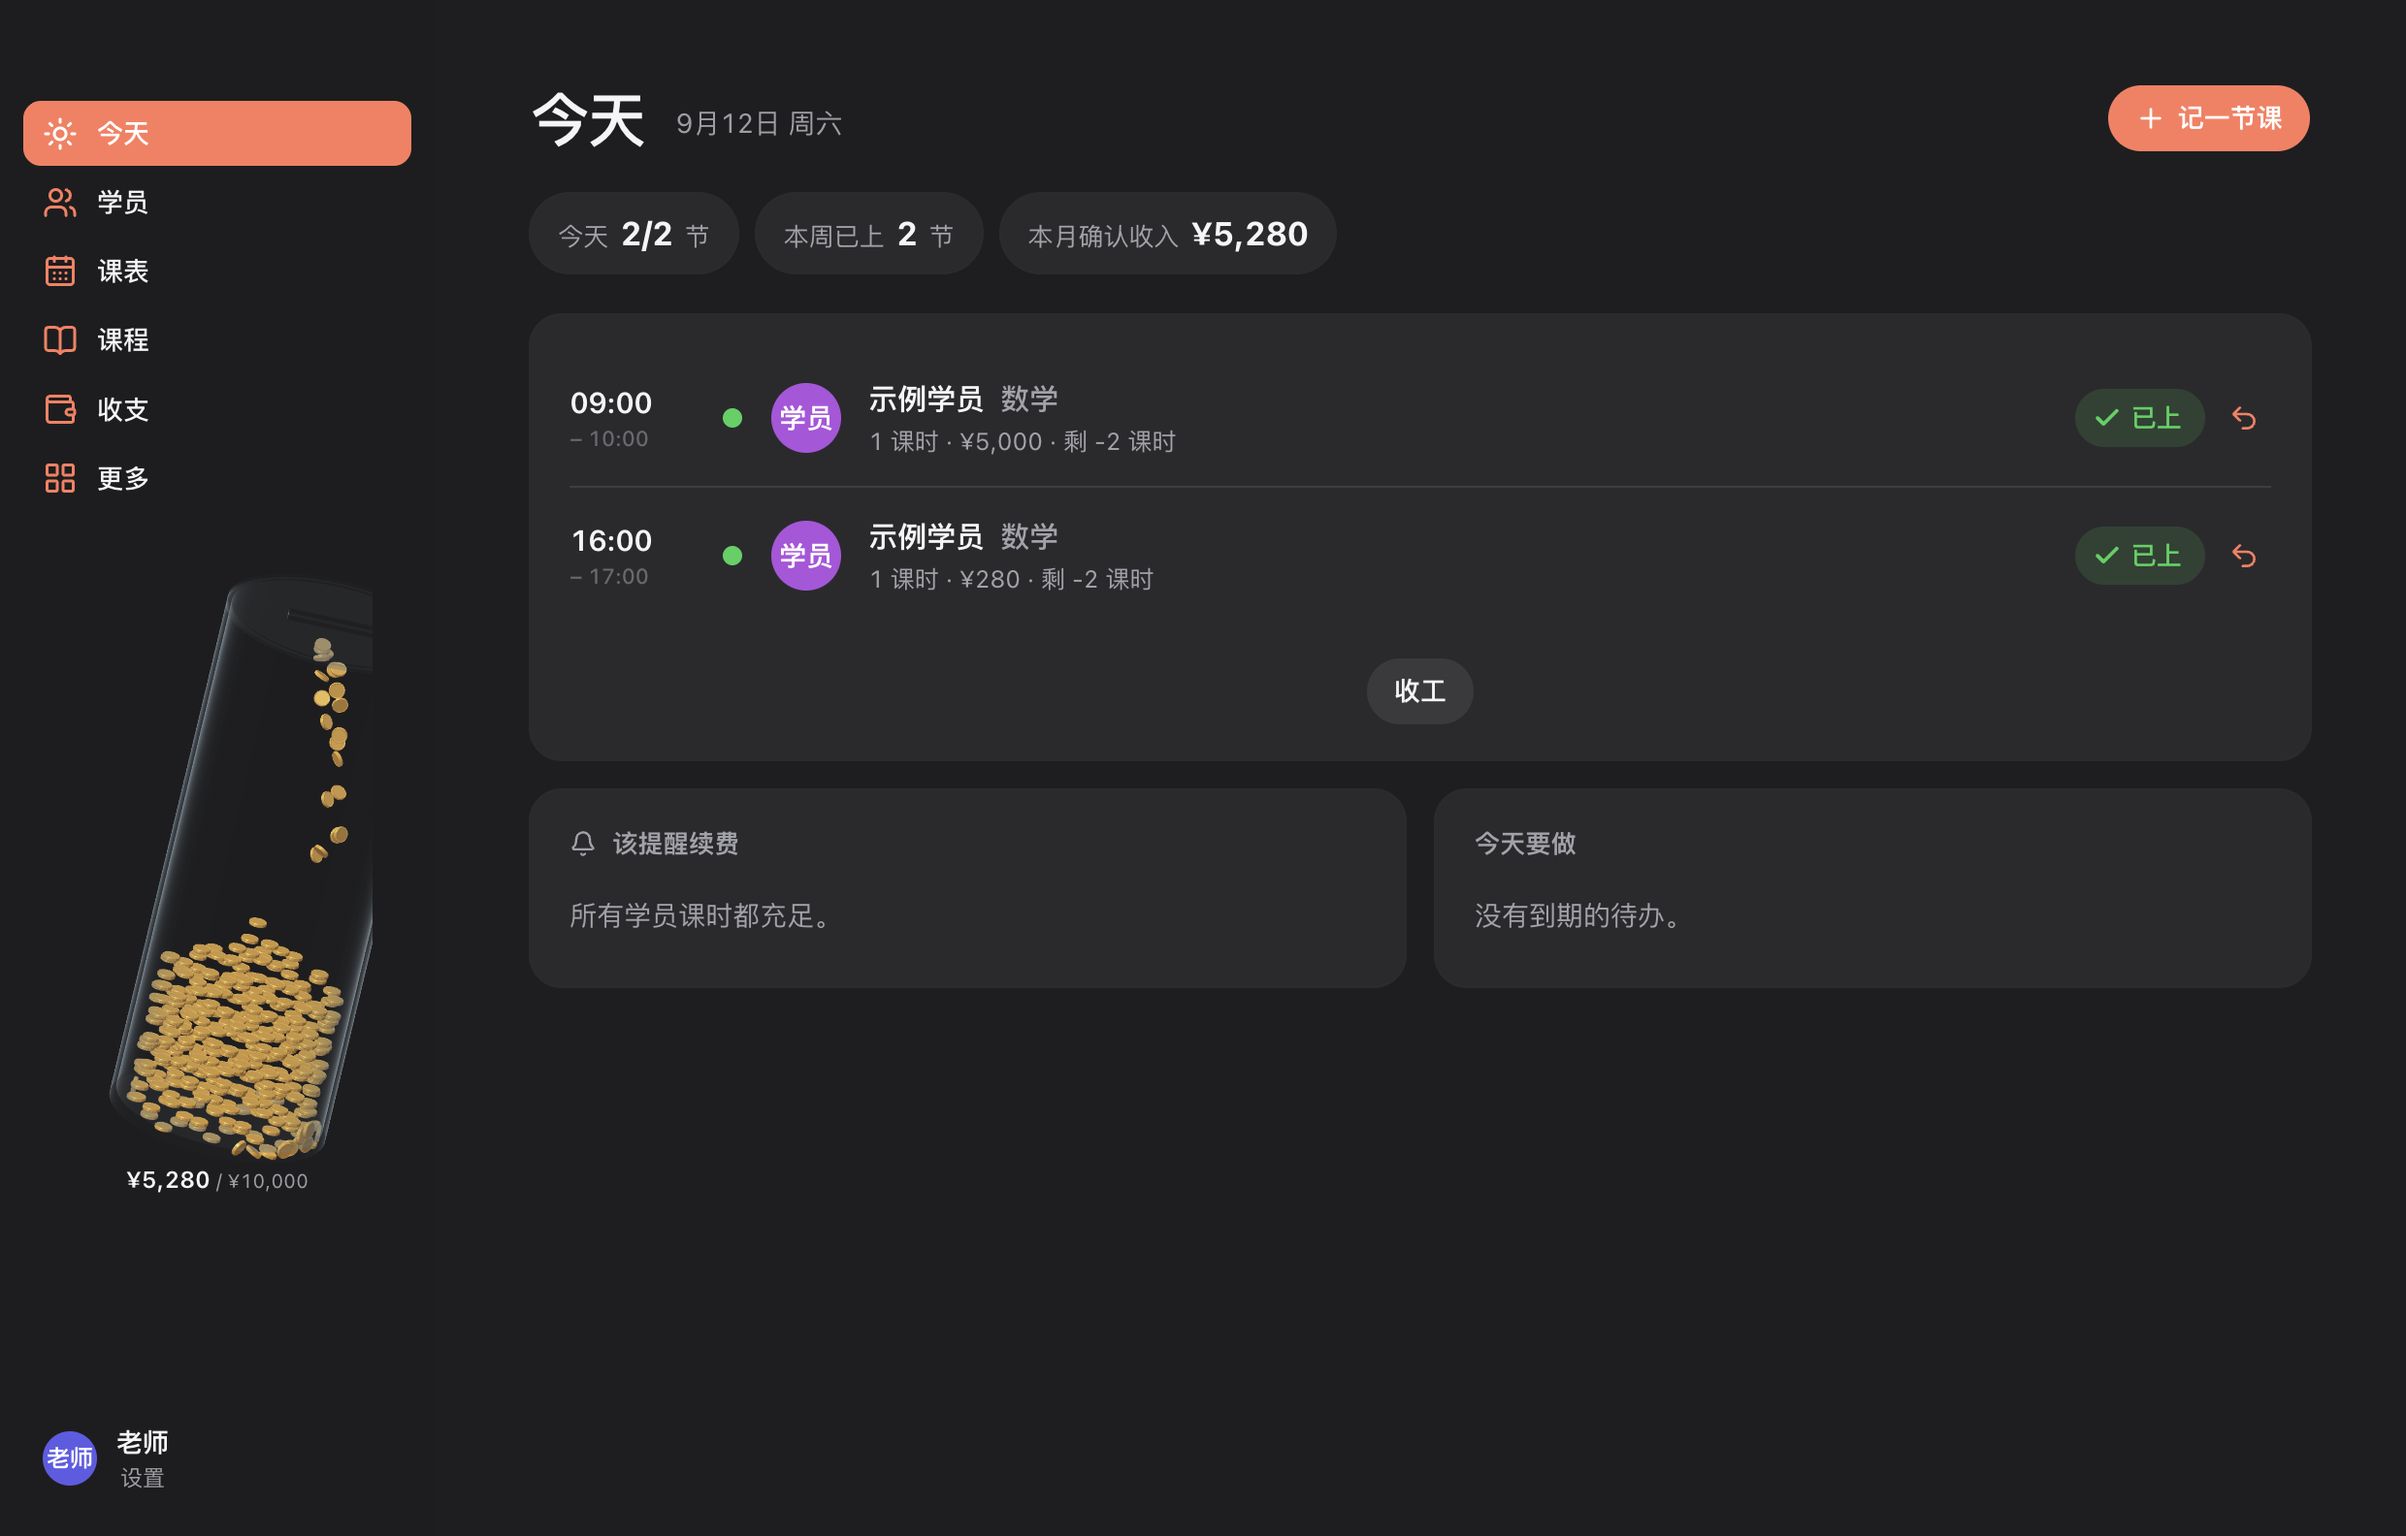
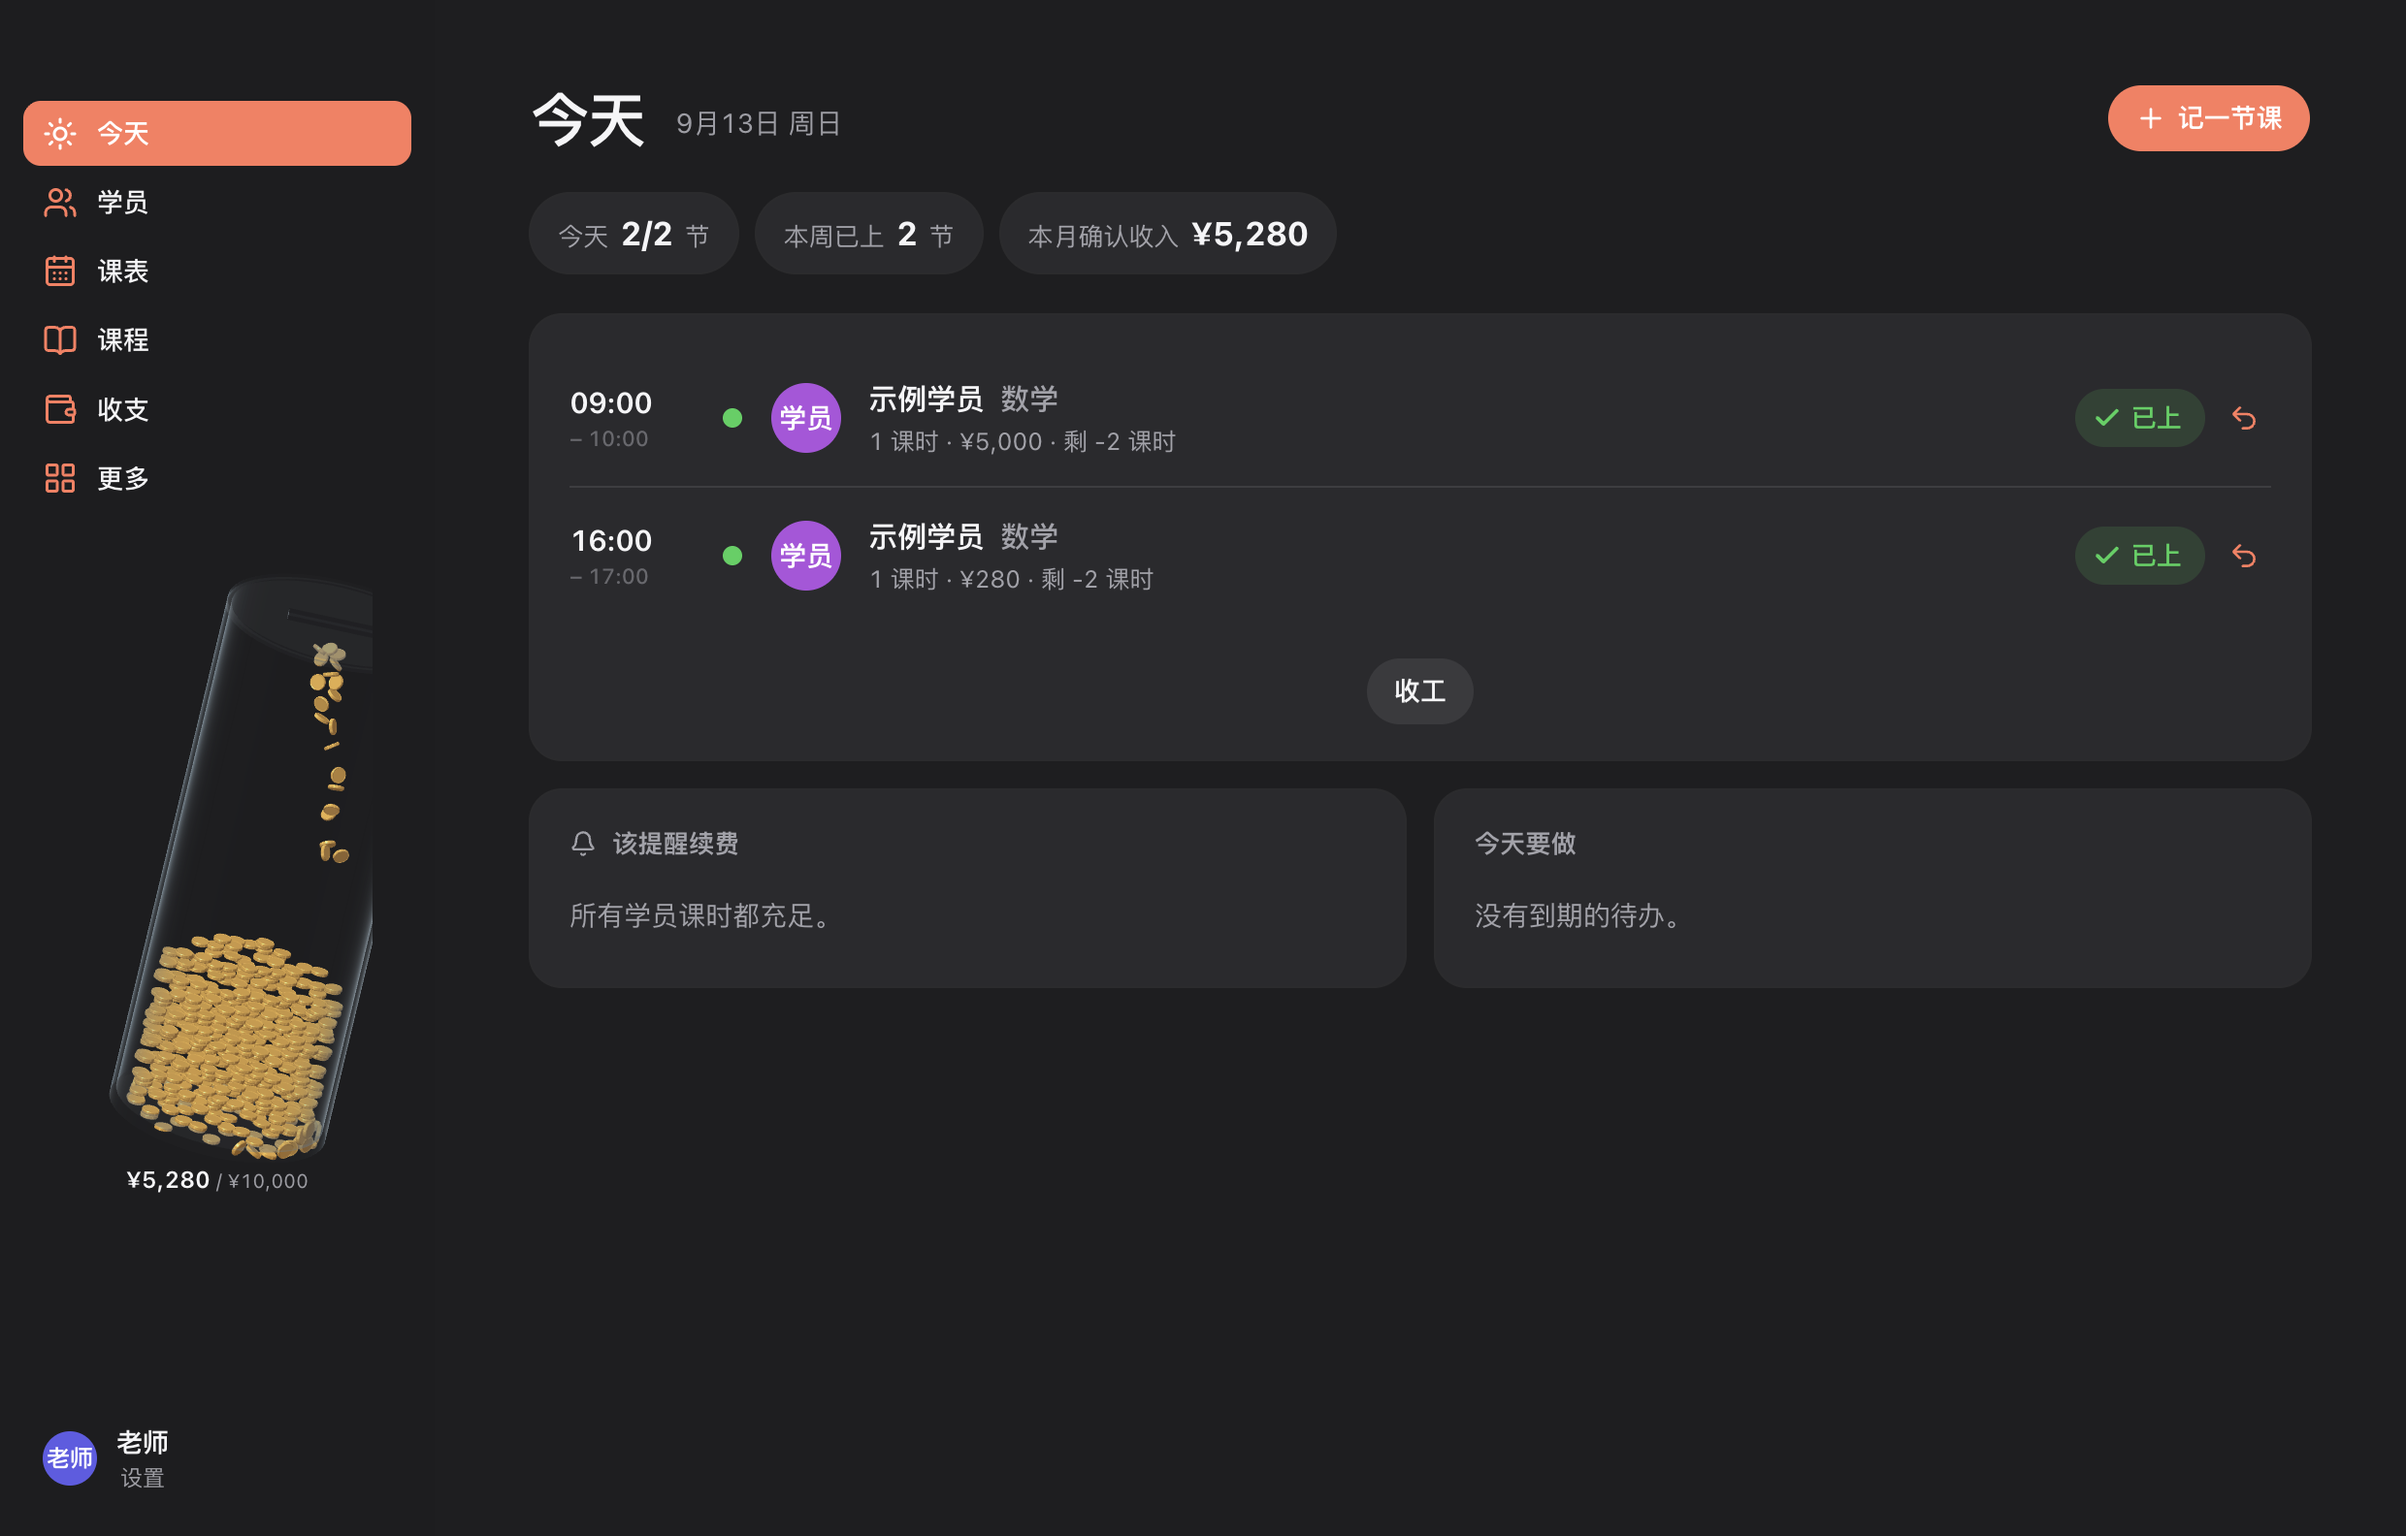
refine: tighten realistic coin pile spacing

Changed region(s): [[0.031, 0.5878, 0.1552, 0.7424], [0.1242, 0.4021, 0.1552, 0.5568]]

diff --git a/src/ui/widgets/SavingsJar.tsx b/src/ui/widgets/SavingsJar.tsx
@@ -4,7 +4,7 @@ import { scheduleCoins, type CoinEmission } from "@/core/coin-queue";
 import { feedbackTiming } from "@/core/lesson-feedback";
 import { jarState } from "@/core/jar";
 import { fmtMoney } from "@/core/finance";
-import { buildJarPile } from "@/core/jar-pile";
+import { buildJarPile, buildJarVisualPile } from "@/core/jar-pile";
 import { createJarPhysics3D, type PhysicsCoinPose } from "@/core/jar-physics-3d";
 import { rotateVectorByQuaternion, type Quaternion } from "@/core/jar-mesh";
 import { useLocalDay } from "./useLocalDay";
@@ -34,30 +34,24 @@ function seededRandom(seed: number) {
 }
 
 function visualPile(fill: number, height: number): PhysicsCoinPose[] {
-  if (fill <= 0) return [];
-  const target = Math.max(0.08, fill * height * 0.82);
-  const poses: PhysicsCoinPose[] = [];
-  const rowStep = COIN_HALF_HEIGHT * 2.8;
-  for (let row = 0; row * rowStep + COIN_HALF_HEIGHT <= target; row++) {
-    const y = COIN_HALF_HEIGHT + row * rowStep;
-    for (let column = 0; column < 12; column++) {
-      const x = -0.76 + column * 0.138 + (row % 2) * 0.025;
-      const availableDepth = Math.sqrt(Math.max(0, 0.82 ** 2 - x ** 2));
-      const z = Math.sin(column * 7.13 + row * 3.71) * availableDepth * 0.88;
-      const radial = Math.hypot(x, z);
-      const localTop = target * (0.7 + 0.3 * Math.max(0, 1 - radial / 0.82) ** 1.7);
-      if (radial > 0.82 || y > localTop) continue;
-      const yaw = ((row * 12 + column) * 0.61803398875 % 1) * Math.PI * 2;
-      poses.push({
-        id: `stable-${row}-${column}`,
-        position: { x, y, z },
-        rotation: { x: 0, y: Math.sin(yaw / 2), z: 0, w: Math.cos(yaw / 2) },
-        radius: COIN_RADIUS,
-        halfHeight: COIN_HALF_HEIGHT,
-      });
-    }
-  }
-  return poses;
+  return buildJarVisualPile(fill, height, COIN_RADIUS, COIN_HALF_HEIGHT).map((coin, index) => {
+    const hx = coin.tiltX / 2;
+    const hz = coin.tiltZ / 2;
+    const tilt = {
+      x: Math.cos(hz) * Math.sin(hx),
+      y: Math.sin(hz) * Math.sin(hx),
+      z: Math.sin(hz) * Math.cos(hx),
+      w: Math.cos(hz) * Math.cos(hx),
+    };
+    const yaw = { x: 0, y: Math.sin(coin.yaw / 2), z: 0, w: Math.cos(coin.yaw / 2) };
+    return {
+      id: `stable-${index}`,
+      position: { x: coin.x, y: coin.y, z: coin.z },
+      rotation: multiplyQuaternion(yaw, tilt),
+      radius: COIN_RADIUS,
+      halfHeight: COIN_HALF_HEIGHT,
+    };
+  });
 }
 
 function transformStablePose(pose: PhysicsCoinPose, jarRotation: Quaternion): PhysicsCoinPose {

diff --git a/src/core/jar-pile.ts b/src/core/jar-pile.ts
@@ -5,6 +5,48 @@ export interface PileCoin {
   yaw: number;
 }
 
+export interface VisualPileCoin extends PileCoin {
+  tiltX: number;
+  tiltZ: number;
+}
+
+/** Dense visible shell for historical value; layers nearly touch and avoid a flat grid look. */
+export function buildJarVisualPile(
+  fill: number,
+  height: number,
+  radius: number,
+  halfHeight: number,
+): VisualPileCoin[] {
+  const safeFill = Math.max(0, Math.min(1, fill));
+  if (!safeFill) return [];
+  const target = Math.max(radius, safeFill * height * 0.82);
+  const result: VisualPileCoin[] = [];
+  const layerStep = halfHeight * 2.02;
+  for (let layer = 0; layer * layerStep + halfHeight <= target && result.length < 1200; layer++) {
+    const beforeLayer = result.length;
+    const y = halfHeight + layer * layerStep;
+    for (let column = 0; column < 12 && result.length < 1200; column++) {
+      const x = -0.76 + column * 0.138 + (layer % 2) * 0.025;
+      const availableDepth = Math.sqrt(Math.max(0, 0.82 ** 2 - x ** 2));
+      const z = Math.sin(column * 7.13 + layer * 3.71) * availableDepth * 0.88;
+      const radial = Math.hypot(x, z);
+      const localTop = target * (0.7 + 0.3 * Math.max(0, 1 - radial / 0.82) ** 1.7);
+      if (radial > 0.82 || y > localTop) continue;
+      const index = layer * 12 + column;
+      result.push({
+        x,
+        y,
+        z,
+        yaw: ((index * 0.61803398875) % 1) * Math.PI * 2,
+        tiltX: Math.sin(index * 2.17) * 0.055,
+        tiltZ: Math.cos(index * 1.73) * 0.055,
+      });
+    }
+    if (result.length === beforeLayer) break;
+  }
+  return result;
+}
+
 /** Deterministic bounded coin columns with a higher center and tapered edge. */
 export function buildJarPile(fill: number, count: number, radius: number, halfHeight: number): PileCoin[] {
   const safeFill = Math.max(0, Math.min(1, fill));
@@ -46,4 +88,3 @@ export function buildJarPile(fill: number, count: number, radius: number, halfHe
   }
   return result;
 }
-

diff --git a/tests/jar-pile.test.ts b/tests/jar-pile.test.ts
@@ -1,5 +1,5 @@
 import { describe, expect, it } from "vitest";
-import { buildJarPile } from "../src/core/jar-pile";
+import { buildJarPile, buildJarVisualPile } from "../src/core/jar-pile";
 
 describe("三维金币小山堆", () => {
   it("确定性生成有界的圆形币堆", () => {
@@ -20,5 +20,15 @@ describe("三维金币小山堆", () => {
     expect(center.length).toBeGreaterThan(0);
     expect(edge.length).toBeGreaterThan(0);
     expect(Math.max(...center.map((coin) => coin.y))).toBeGreaterThan(Math.max(...edge.map((coin) => coin.y)));
+  });
+
+  it("历史可见币层接近真实厚度并带有自然倾角", () => {
+    const halfHeight = 0.018;
+    const pile = buildJarVisualPile(0.5, 4.6, 0.082, halfHeight);
+    const levels = [...new Set(pile.map((coin) => coin.y))].sort((a, b) => a - b);
+    const largestGap = Math.max(...levels.slice(1).map((level, index) => level - levels[index]!));
+
+    expect(largestGap).toBeLessThanOrEqual(halfHeight * 2.03);
+    expect(pile.some((coin) => Math.abs(coin.tiltX) + Math.abs(coin.tiltZ) > 0.03)).toBe(true);
   });
 });

diff --git a/docs/储蓄罐交付.md b/docs/储蓄罐交付.md
@@ -81,5 +81,6 @@ posterShare.stop(sessionId?: string): Promise<void>
 - `src/core/jar-physics-3d.ts` 使用 Rapier 3D：金币是圆柱刚体，罐体由底面、32 段内壁和三层堆体承托碰撞体组成；金币会下落、翻滚、互相碰撞并形成中间略高的堆形。
 - 拖动会更新罐体运动学刚体姿态并唤醒表层金币；倾斜后新金币从旋转后的投币口生成。静止时停止物理帧。
 - 动态刚体上限为 240；历史金额使用有界三维网格和下层碰撞体，不持久化每枚金币姿态。性能脚本测 Rapier CPU 时间，不代表 GPU 帧耗时。
+- 历史可见层按金币厚度的 1.02 倍密排，层间视觉空隙约为厚度的 2%，并加入小幅确定性倾角；移动中的金币仍全部由 Rapier 体积碰撞求解。
 
-最终检查：85 项测试、typecheck、lint、build 通过；WebGL模型基础网格1488个三角形，拖动与真实三维碰撞验证通过；局域网HTTP 200及关闭清理通过。
+最终检查：86 项测试、typecheck、lint、build 通过；WebGL模型基础网格1488个三角形，拖动与真实三维碰撞验证通过；局域网HTTP 200及关闭清理通过。

diff --git a/COMPONENT-API-DOCS.md b/COMPONENT-API-DOCS.md
@@ -7,7 +7,7 @@
 - 渲染：原生 WebGL 2；罐体和金币使用真实三维网格。
 - 物理：`createJarPhysics3D({ height, radius })` 返回隔离的 Rapier 世界。
 - 活跃金币：最多 240 个圆柱刚体，姿态包含三维位置、四元数、半径和半厚度。
-- 历史金额：重建为有界静态网格；三层同心碰撞台阶承托动态表层。
+- 历史金额：重建为最多 1200 枚、按厚度 1.02 倍密排的有界静态网格；三层同心碰撞台阶承托动态表层。
 - 拖拽：`setJarTilt(x, z)` 更新运动学罐体并唤醒动态金币。
 - 生命周期：全部金币休眠后停止动画帧；卸载时释放 WebGL 与 Rapier 资源。
 - 持久化：只保存 `coinValue` 与 `jarCapacity`，不保存刚体姿态。
